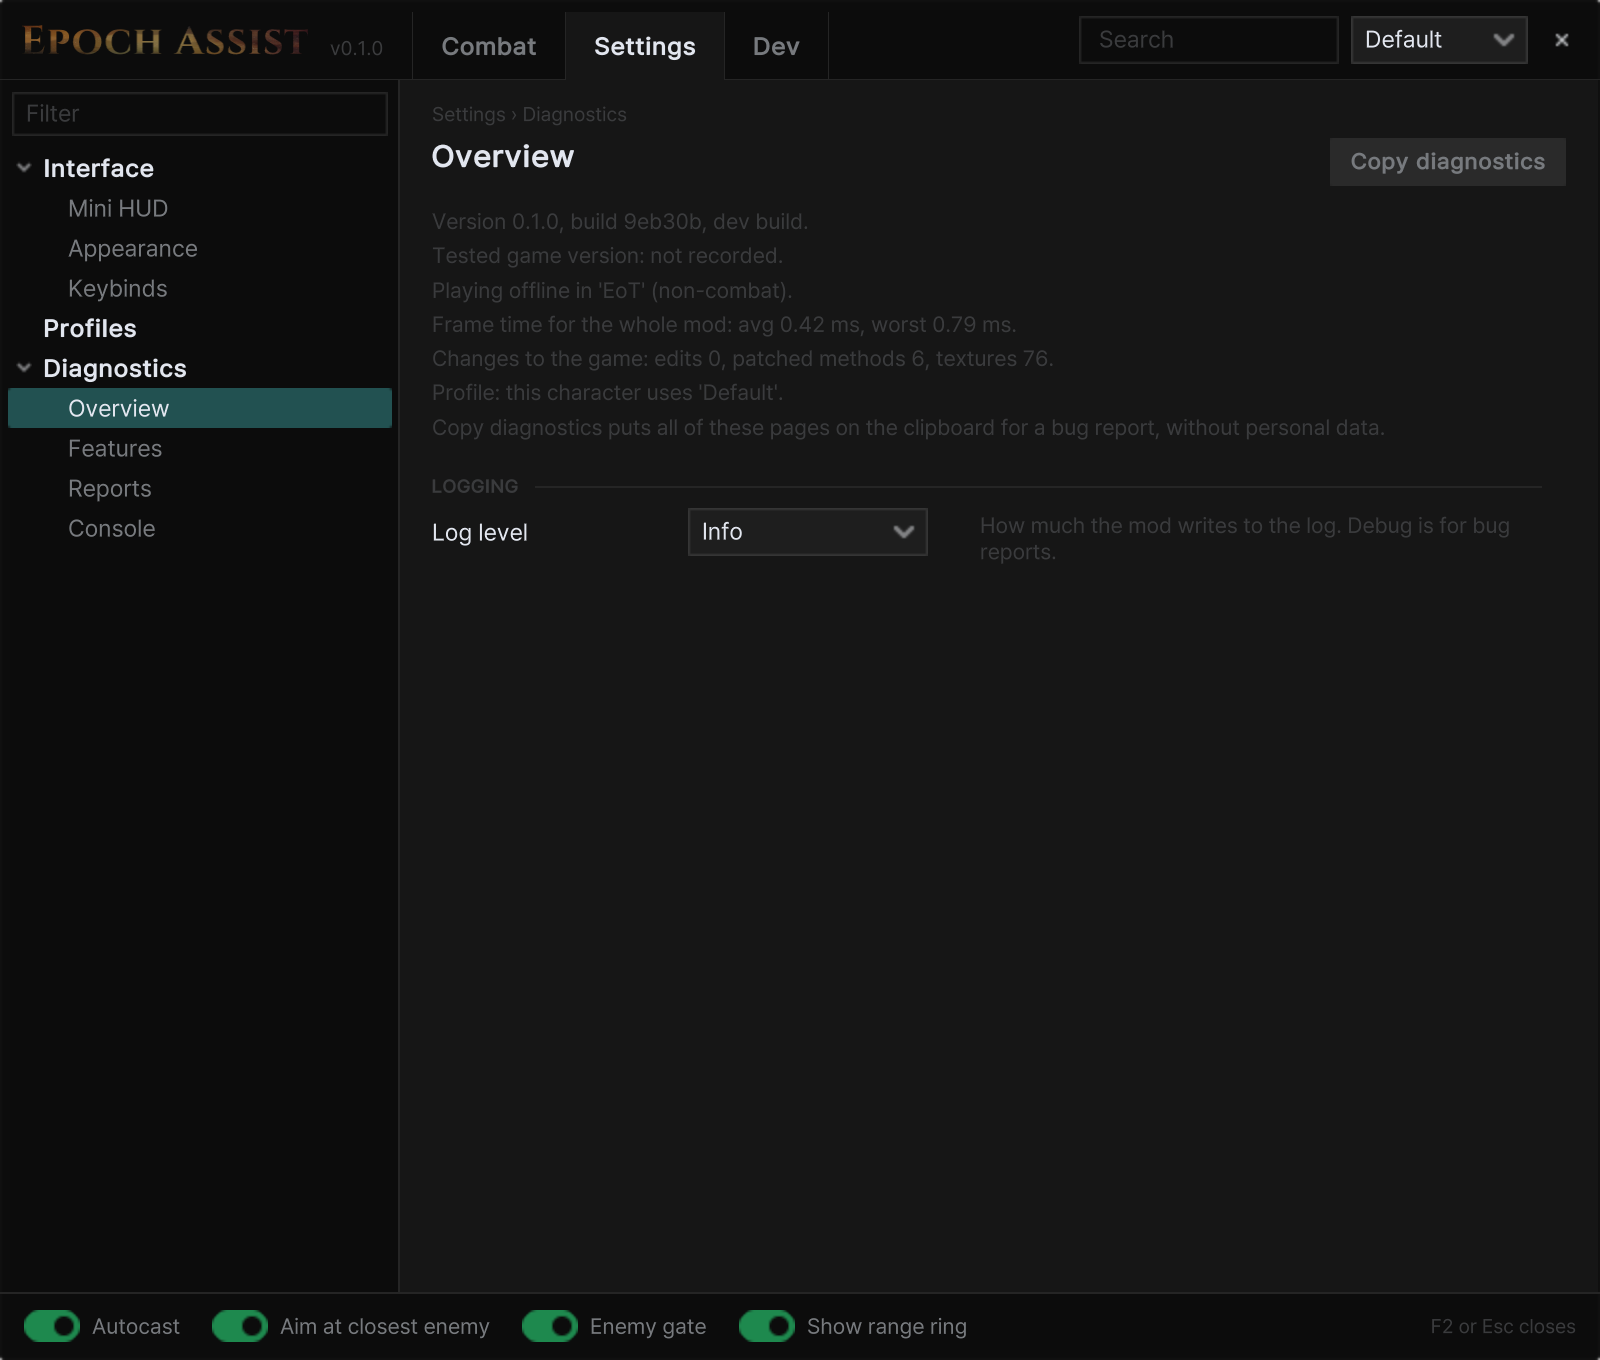
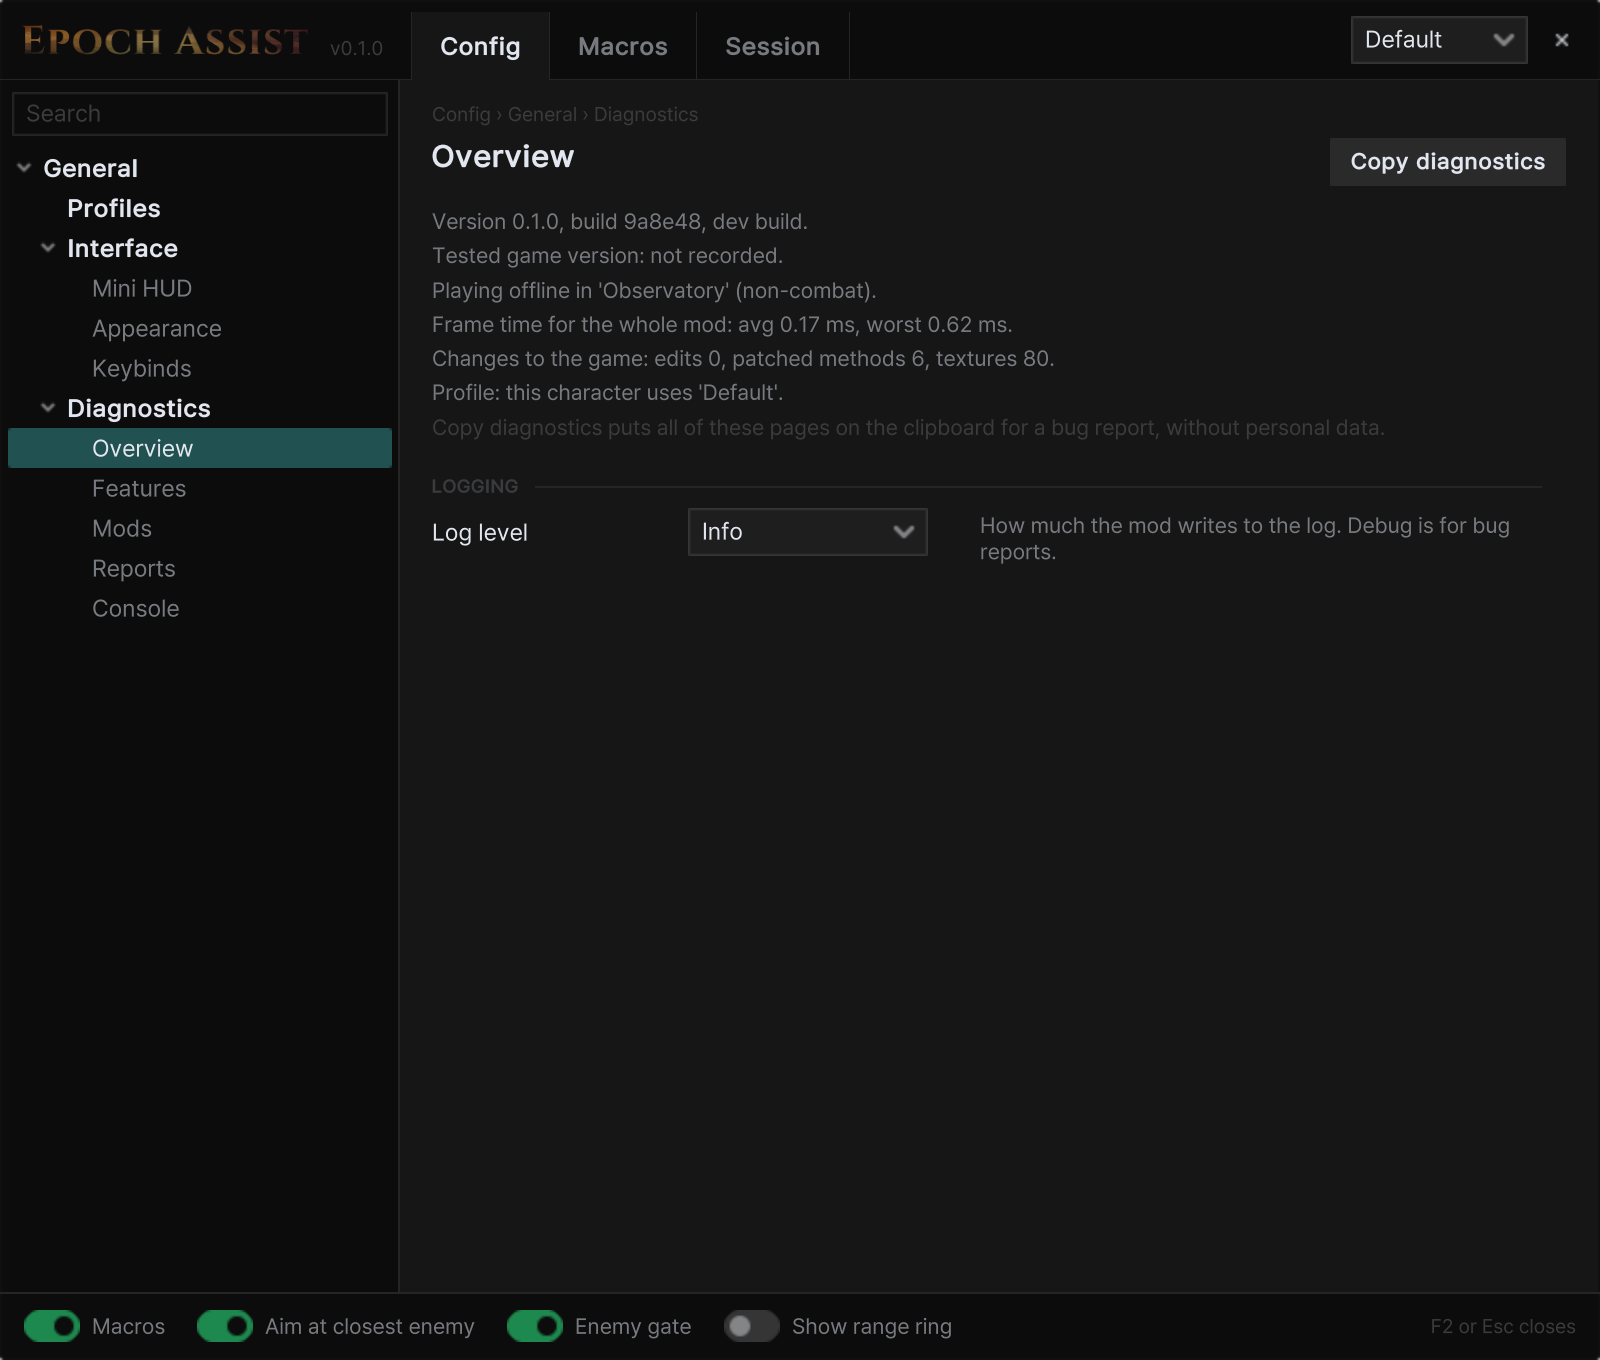
docs(nexus): screenshots show Config tab and current mini HUD

diff --git a/nexus/media/README.md b/nexus/media/README.md
@@ -25,12 +25,12 @@ is drawn (`tools/shot.sh …`; shots land in `UserData/EpochAssist/dev/shots/`):
 |---|---|---|
 | `macros` | Macros › Library with Slots, Potions and a filled-out example set (made for the shot, removed after; slots 1 and 5 ticked) | `menu open macros/library/library`, `wait 90`, `shot menu macros matte` |
 | `macro-editor` | One macro's editor with an all-of tree, a nested any-of group and live values | `macro edit <set>/<macro>`, `wait 90`, `shot menu macro-editor matte` |
-| `hud` | The mini HUD with its quick toggles open | `hud panel open`, `wait 30`, `shot hud hud matte`, `hud panel close` |
-| `profiles` | Settings › Profiles | `run menu.profiles`, `wait 90`, `shot menu profiles matte` |
-| `appearance` | Settings › Interface › Appearance | `menu open settings 1`, `wait 90`, `shot menu appearance matte` |
-| `keybinds` | Settings › Interface › Keybinds | `menu open settings 2`, `wait 90`, `shot menu keybinds matte` |
-| `diagnostics` | Settings › Diagnostics › Overview (a dev build's summary says "dev build"; take it a while after a reload, whose hitch shows as the worst frame time) | `run diagnostics.open`, `wait 900`, `shot menu diagnostics matte` |
-| `settings-hud` | Config › General › Interface › Mini HUD, second image under Mini HUD (the HUD preview can poke a few pixels past the menu's left edge; trim the image to the menu's 1600 px) | `menu open settings 0`, `wait 90`, `shot menu settings-hud matte` |
+| `hud` | The mini HUD with its quick toggles open (slots 1 and 3 ticked for the shot) | `run autocast.slot.1`, `run autocast.slot.3`, `hud panel open`, `wait 30`, `shot hud hud matte`, `hud panel close`, the two slots off again |
+| `profiles` | Config › General › Profiles | `menu open combat/general/profiles`, `wait 90`, `shot menu profiles matte` |
+| `appearance` | Config › General › Interface › Appearance | `menu open combat/general/interface/appearance`, `wait 90`, `shot menu appearance matte` |
+| `keybinds` | Config › General › Interface › Keybinds | `menu open combat/general/interface/keybinds`, `wait 90`, `shot menu keybinds matte` |
+| `diagnostics` | Config › General › Diagnostics › Overview, offline (the summary names the mode; a dev build's says "dev build"; take it a while after a reload, whose hitch shows as the worst frame time; an unfocused game runs few frames a second, so the wait takes longer) | `menu open combat/general/diagnostics/overview`, `wait 900`, `shot menu diagnostics matte` |
+| `settings-hud` | Config › General › Interface › Mini HUD, second image under Mini HUD (the HUD preview pokes 4 px past the menu's left and top edges; trim the image to the menu's 1600 × 1360) | `menu open combat/general/interface/mini-hud`, `wait 90`, `shot menu settings-hud matte` |
 
-A dev build shows a Dev tab in the menu; players don't have it. Not shipped in the zip. The Nexus gallery images and the page header and banner (`../banner-1300x372.png`,
+A dev build lists a Dev section in the Config tree; players don't have it: `menu devpages off` hides it for the shots (`menu devpages on` after). Not shipped in the zip. The Nexus gallery images and the page header and banner (`../banner-1300x372.png`,
 `../header-1920x1080.png`) are uploaded by hand.
